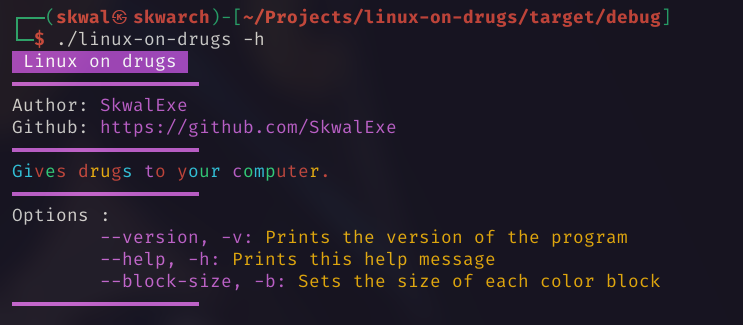
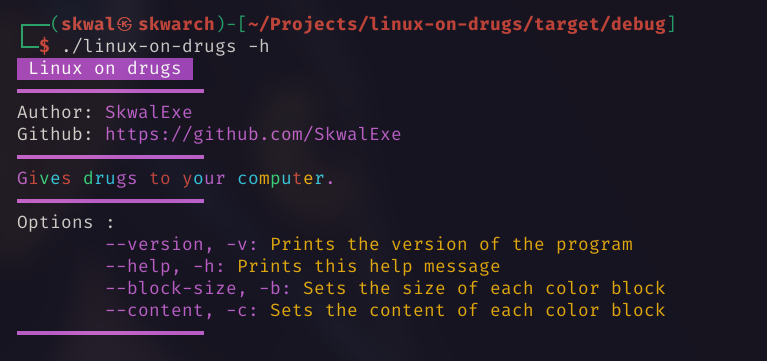
added block content option

Changed region(s): [[0.0, 0.0308, 0.8977, 0.7077], [0.0, 0.6462, 0.8977, 0.9538]]

diff --git a/src/main.rs b/src/main.rs
@@ -42,7 +42,7 @@ fn drug_print(text: &str) {
 }
 
 fn main() {
-   let block_content = String::from(" "); // I will add the possibility to change this later
+   let mut block_content = String::from(" ");
 
    let mut block_size: usize = 2;
    let mut command = "drugs";
@@ -52,6 +52,28 @@ fn main() {
 
    while args.len() > 0 {
       match args[0].as_str() {
+         "-c" | "--content" => {
+            if args.len() < 2 {
+               println!(
+                  "{}[ x ] : Error: Argument needed after -c/--content{}",
+                  RED, RESET
+               );
+               process::exit(1);
+            }
+
+            args.remove(0);
+            let temp = args.remove(0);
+
+            if temp.len() < 2 {
+               block_content = temp;
+            } else {
+               println!(
+                  "{}[ x ] : Error: you must specify only one character after -c/--content{}",
+                  RED, RESET
+               );
+               process::exit(1);
+            }
+         }
          "-b" | "--block-size" => {
             if args.len() < 2 {
                println!(
@@ -101,7 +123,6 @@ fn main() {
          }
       }
    }
-
    match command {
       "version" => println!(
          "{}Linux on drugs, by Skwal => {}{}{}",
@@ -129,6 +150,10 @@ fn main() {
          );
          println!(
             "\t{}--block-size, -b: {}Sets the size of each color block{}",
+            MAGENTA, YELLOW, RESET
+         );
+         println!(
+            "\t{}--content, -c: {}Sets the content of each color block{}",
             MAGENTA, YELLOW, RESET
          );
          println!("{}━━━━━━━━━━━━━━━━━{}", MAGENTA, RESET);
